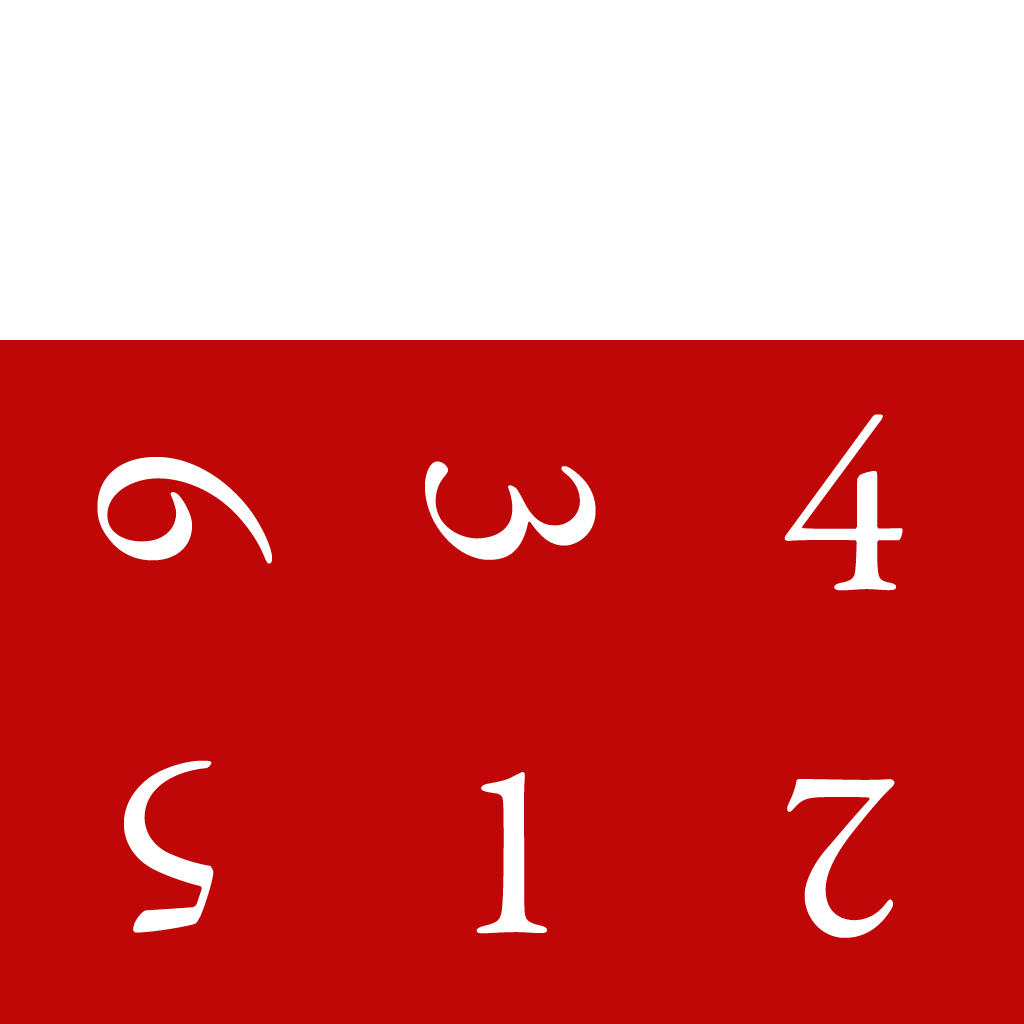
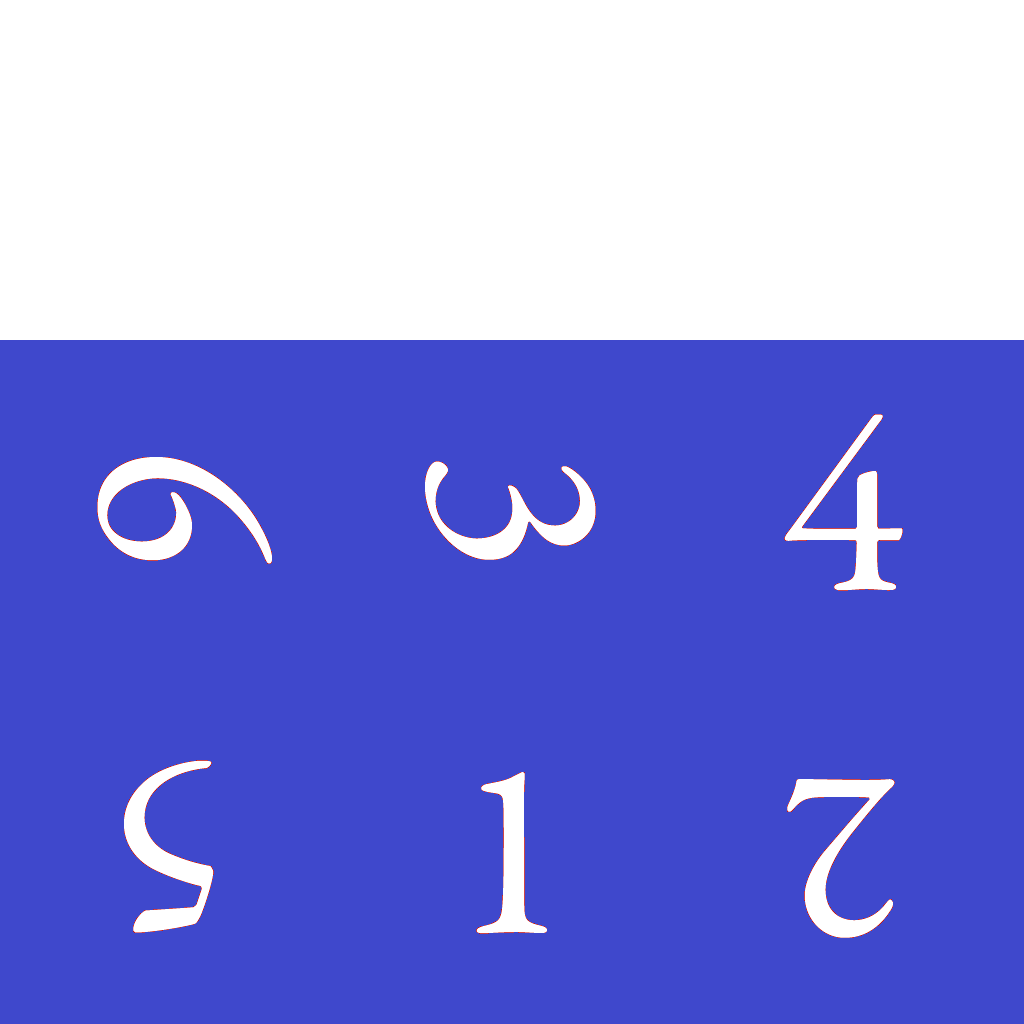
added another jack in port and terminal (We need 2)
also redecerated the scene and made dice look better

diff --git a/Room Stage 0/Assets/Standard Assets/Scripts/General Scripts/PlayerDice.cs b/Room Stage 0/Assets/Standard Assets/Scripts/General Scripts/PlayerDice.cs
@@ -303,5 +303,8 @@ public class PlayerDice : MonoBehaviour {
 		GameObject.Find("Main Camera").GetComponent<MouseLook>().enabled=true;
 		GameObject.Find("First Person Controller").GetComponent<MouseLook>().enabled=true;
 		GameObject.Find("Initialization").GetComponent<CursorTime>().showCursor=true;
+		text = "Your die is fair. Don't" +
+						"mess with it. Cheating will" +
+						"result in dire consequences.";
 	}
 }
